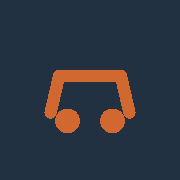
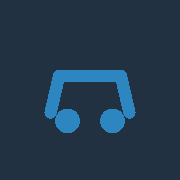
Remplace l'accent orange par un bleu de travail (charte "garagiste")
--color-accent/-dark/-on-dark passent du rouille au bleu (#2e86c1,
#164a68, #7fb8dd), recalculés pour garder les mêmes garanties de
contraste WCAG AA que la version orange (bouton Appeler, badges sur
fond sombre, textes de prix). Le favicon et l'apple-touch-icon
(régénéré via le script Perl) suivent la même teinte.

Corrige au passage le skip-link, qui utilisait l'accent clair en
fond avec du texte blanc et ne passait déjà pas le contraste AA en
orange (texte blanc sur accent : 3.66:1) — bascule sur accent-dark
comme le bouton Appeler (8.98:1).

Changed region(s): [[0.25, 0.3889, 0.75, 0.75]]

diff --git a/css/style.css b/css/style.css
@@ -43,9 +43,9 @@
   --color-text-muted: #6b6459;
   --color-primary: #223142;
   --color-primary-dark: #16212c;
-  --color-accent: #d1682f;
-  --color-accent-dark: #b3551f;
-  --color-accent-on-dark: #eb9455;
+  --color-accent: #2e86c1;
+  --color-accent-dark: #164a68;
+  --color-accent-on-dark: #7fb8dd;
   --color-ink: #1c1712;
   --color-border: #ddd2ba;
   --radius: 4px;
@@ -79,7 +79,7 @@ body {
   top: -3rem;
   left: 0.75rem;
   z-index: 100;
-  background: var(--color-accent);
+  background: var(--color-accent-dark);
   color: #fff;
   padding: 0.65rem 1.1rem;
   border-radius: var(--radius);
